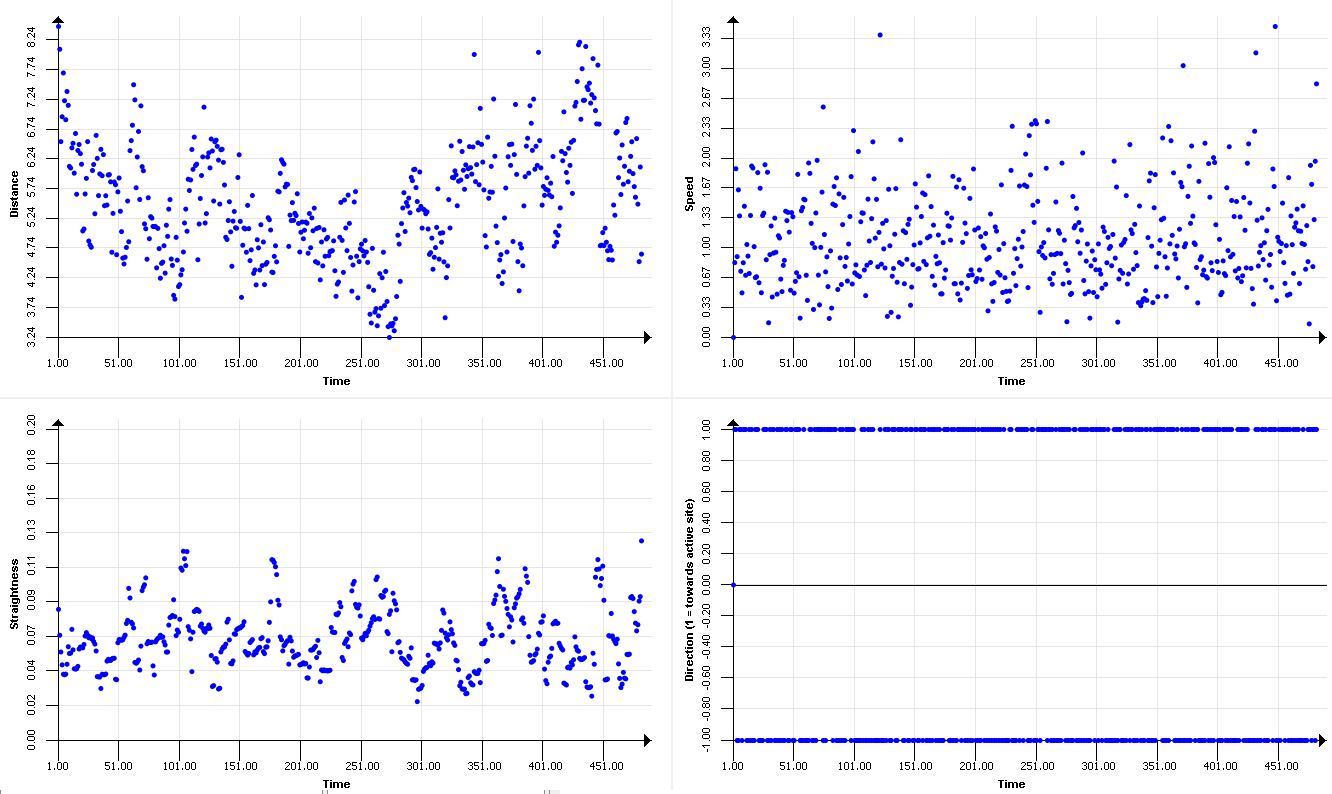
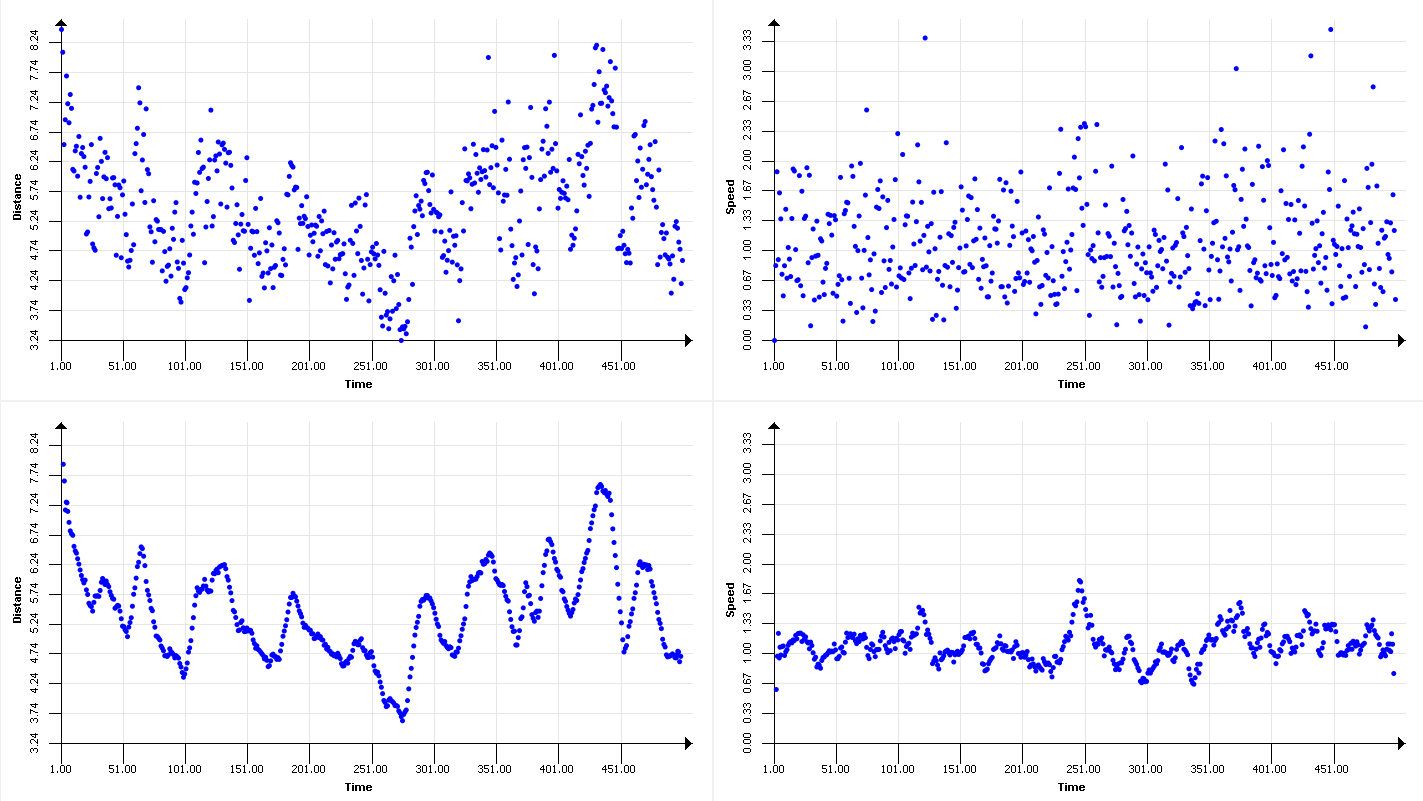
Coppied Intro and Related work from previous article.

diff --git a/BioVis/BioVis_BMC_template/ligand.tex b/BioVis/BioVis_BMC_template/ligand.tex
@@ -256,8 +256,132 @@
 %% Background %%
 %%
 \section*{Background}
-
 TODO BK + JP (Intro + RW)
+
+The study of reaction processes between different types of molecules has been an important research problem already for decades.
+A proper understanding of the processes occurring when two or more molecules react helps in the design of new chemical matters, e.g., in drug design or protein engineering.
+Here, the researchers aim to combine a protein with a given ligand in order to design a new drug or to change protein properties and their function.
+In these particular cases the ligand has to be transported from the outer solvent to the protein active site where the chemical reaction between the ligand and the amino acids surrounding the active site takes place.
+The consecutive reaction then changes the composition and properties of both molecules. 
+In protein engineering, for example, the goal is to alter the protein properties so that the new protein is, e.g., more stable and resistant to organic cosolvents~\cite{Koudelakova2013}.
+
+The design complexity of such reactions lies namely in the transportation of the ligand to the protein active site.
+As the active site is usually buried deeply in the protein structure and thus inaccessible directly from its surface, the ligand has to find a suitable transportation path through the protein structure.
+This process, called molecular docking, is very complex, lengthy, and its analysis is heavy on computational resources. 
+Therefore, researchers aim at solutions that simplify and ease the analysis for proper ligand binding.
+Currently available solutions often focus on detection of possible ligand transportation paths through the protein, called tunnels.
+These solutions are mostly based on the geometric analysis, which lead to the tunnel detection in the end, e.g., CAVER~\cite{Chovancova2012}, MOLE~\cite{Sehnal2013}, or MolAxis~\cite{Yaffe2008}.
+Other approaches, such as MoMA-LigPath~\cite{Devaurs}, aim at simulating the ligand transportation itself.
+Nevertheless, simulating the ligand docking using current computational approaches is still a challenging problem.
+There are several available variants of molecular simulation methods devised specifically to this problem. 
+Among these Steered Molecular Dynamics~\cite{Isralewitz} and Random Acceleration Molecular Dynamics~\cite{Ludemann} are able to simulate the ligand binding. 
+Such simulations produce a large amount of data containing the ligand movements that are to be explored by the domain expert.
+As the length of these simulations reaches often hundreds of thousands of time steps, it becomes impossible for the domain experts to visualize and observe the ligand movement in a frame-by-frame manner.
+Moreover, the simulation often contains movements that are irrelevant to the ligand binding.
+For example, a significant portion of the simulation the ligand usually spends outside the protein searching for a proper tunnel gorge to enter the molecule. 
+It also often happens that the ligand enters the molecule via a wrong tunnel and is then evicted from the molecule and searches for the entrance repeatedly.
+Therefore, the "true" active site entering can be in fact captured in a smaller subset of the original sequence.
+
+In this paper, we propose a new visual analysis system that addresses the aforementioned challenges, i.e.,  the transportation of a ligand to the active site. 
+We aim to provide the domain experts with a tool for intuitive and interactive exploration of already captured molecular dynamics simulation containing the process of ligand binding. 
+Using our proposed solution the users are able to distinguish between the parts of the simulation where the ligand searches for the proper path to the active site (searches the tunnel gorge or enters the wrong tunnel) and the part where the ligand finally leads to and reaches the active site.
+
+{\color{red} CHANGE
+Here, we introduce four dedicated methods for simplification of the original trajectory.
+These methods can simplify the ligand path hierarchically, thus providing several levels of detail (LOD), which can be interactively examined.
+In the most abstracted view, represented as the top-most LOD, the temporal tunnel shows only the significant shifts of the ligand towards the active site. 
+Here, the user can interactively brush time intervals, which automatically reveals and adopts the temporal tunnel to the selected interval.
+This abstracted representation, providing the brushing capabilities, is interactively linked with the 3D visualization where the 3D shape of the temporal tunnel for the given temporal window is displayed.
+Further, our tool enables to explore the amino acids surrounding the ligand along its path to the active site as well.
+
+Our proposed solution was thoroughly tested and evaluated by the domain experts from protein engineering.
+They performed the evaluation on their own simulations and their feedback is described in....}
+
+\section{Related Work}
+The interactive exploration of ligand paths through protein structures is a complex problem that requires an elaborate analysis of existing and convenient approaches.
+As our system addresses several areas, this section will be divided with respect to these areas as well. 
+Studying the ligand transport path is tightly related to the analysis of its trajectory.
+Thus, the first part will cover the topic related to the trajectory analysis, simplification, and visualization.
+Then the existing representations of tunnels and their surrounding amino acids will be addressed.
+
+\subsection{Trajectory Analysis, Simplification, and Visualization}
+When searching for the most appropriate trajectory simplification method, the taxonomy of different movement patterns introduced by Dodge et al.~\cite{Dodge2008} can help to categorize the type of motion and to propose an appropriate solution for the analysis and simplification.
+Then, Andrienko et al.~\cite{andrienko2013} describe a legacy of tools and approaches to analyze trajectory data.
+With respect to the trajectory simplification, they introduce two approaches to data abstraction representing a necessary step to achieve the reduction of the data in order to achieve informative visualizations.
+The first approach is characterized by omitting unnecessary positions and segments, while the second exploits data subsampling.
+On the other hand, they state that there is no general method to sample trajectories.
+Thus the suitability of particular sampling method is deduced from what information is considered important.
+A recent work of Vrotsou et al.~\cite{Vrotsou2015} introduce a systematic stepwise methodology for trajectory simplification with emphasis on visual analysis.
+Even though they primarily developed the tool to analyze three dimensional trajectories, it is not limited to them only.
+
+In the field of molecular biology as well as systems biology, there are several examples of methods focusing on trajectory analysis.
+Bidmon et al.~\cite{bidmon2008} present an abstract way of identification and visualization of solvent molecules' pathways within molecular dynamics. 
+In comparison to previous solutions, their approach preserves valuable information on the directions and velocities of water molecules routing along these paths. 
+Another approach that describes a guidance through a complex simulation trajectories in systems biology is presented by Luboschik et al.~\cite{Luboschik2012}. 
+The method addresses biochemical reaction networks and aims to provide the users with a tool for investigating the overall behavior of a modeled system and detailed behavior at the same time.
+
+\subsection{Visualization of Cavity and Tunnel Features}
+Phillips et al.~\cite{phillips2010} propose a method to quantitatively estimate molecular features, e.g., volume and surface areas, via ray-casting technique. This involves computation of cavities.
+Lindow et al.~\cite{LindowBH11} introduce a technique that allows to extract significant paths from the molecules. 
+In their approach the authors utilize Voronoi diagram of spheres. 
+Their final visualization is achieved by means of placing light sources on the extracted paths to enhance the presence of tunnels.
+Parulek et al.~\cite{parulek2012} exploit scatterplots to communicate the evolution of protein voids. 
+In their later study~\cite{parulek2013} they also suggest to utilize amino acids physico-chemical properties related to cavities to help users to navigate through their occurrences. 
+The visualization is then achieved in the focus and context manner.
+Lindow et al. \cite{Lindow2013} present an approach for visualization of temporal evolution of cavities in a temporal graph, which, to a certain extent, resembles our temporal tunnel model. 
+In this work they focus on the interactive exploration of the dynamics of protein cavities that can form the transportation path for a ligand. 
+They calculate and visualize the cavity volume and analyze the time-dependent changes of the cavity structure.
+The cavity dynamics is captured by rendering the cavities in a single image. 
+The final visualization is achieved through the molecular surface representation colored according to time. 
+Krone et al.~\cite{krone2013features} present a similar approach, where they extract and track tunnels in MD simulations. They exploit temporal graphs to communicate the evolution of surface areas of tunnels. In our technique, we go one step further, where in addition, we incorporate the ligand-protein interaction information and provide users with the means to navigate through details of this interaction. Moreover, we analyze sequences of several thousands of frames, which is not the case in aforementioned approaches.
+Kozlikova et al.~\cite{kozlikova2014vcbm} propose a way to seamlessly visualize the geometry and shape of tunnels across MD simulation. Here, they aim at 3D visualization solely, which is not suitable way of exploring and understanding of thousands of simulation time-steps.
+Byska et al.~\cite{byska2016} introduce an approach to interactively explore the tunnel objects in MD simulations. Similarly to our approach they visualize the time-varying tunnel as a profile graph that includes information on surrounding amino acids. Nevertheless, they focus on a single tunnel instance and do not provide the means to explore the ligand-protein interaction.
+
+%-------------------------------------------------------------------------
+\section{Problem Description and Input Data}
+When studying long molecular dynamics simulations, the researchers have to face namely the following high-level tasks:
+\begin{itemize}
+\item Detect the part of the simulation where the ligand enters the protein and finally reaches the active site.
+\item Explore this route in detail and detect its bottlenecks.
+\end{itemize}
+In consequence, these steps are performed in order to reveal the parts of the trajectory where the ligand gets stuck.
+It means that in such parts there are some obstacles made by the surrounding amino acids.
+These obstacles can be geometric (the empty space between these amino acids is too narrow) or physico-chemical (the properties of the amino acids are incompatible with the ligand properties), or their combination.
+The geometric obstacles can be detected by using an algorithm for tunnel computation in molecular dynamics (e.g., CAVER~\cite{Chovancova2012} or MOLE~\cite{Sehnal2013}).
+These tools are able to produce the information about time evolution of individual tunnels and for each tunnel detect its bottleneck -- the narrowest part limiting the size of the ligand aiming to pass through this tunnel.
+Figure~\ref{fig:tunnel} shows an example of small ligand passing through a tunnel computed by CAVER algorithm and visualized using CAVER Analyst~\cite{Kozlikova2014}. 
+The tunnel is colored with respect to the hydrophobicity of the surrounding amino acids and the geometric bottleneck of the tunnel is clearly visible.
+
+\begin{figure}[htb]
+	\centering
+  \includegraphics[width=1\linewidth]{img/tunnel.png}
+  \caption{\label{fig:tunnel} Small ligand (green) passing through a tunnel represented by the transparent surface. The surface encloses the available empty space along the tunnel centerline and is colored with respect to the hydrophobicity of the surrounding amino acids (hydrophobic -- red, hydrophylic -- blue, neutral -- violet). The active site is located in the left ending of the tunnel.}
+\end{figure}
+
+However, this bottleneck can be to some extent influenced by the passing ligand and this influence is also determined by the physico-chemical properties of the ligand and the bottleneck-lining amino acids (e.g., hydrophobicity or partial charges of individual atoms).
+To reveal such dependencies, it requires the involvement and experience of the domain expert who has to study the ligand trajectory captured in the molecular dynamics simulation.
+And for such task a proper visual representation and guidance through such large data is substantial.
+
+In protein engineering, all these effort can finally lead to the detection of amino acids along the ligand trajectory which caused problems, i.e., were the key players in situations when the ligand gets stuck.
+Such amino acids are then the best candidates for subsequent mutation of the protein chain when these amino acids are replaced by more suitable ones wrt. their size and properties.
+On the other hand, in drug design the aim is to propose modifications of the ligand to increase the binding likelihood in order to design a better drug produced from this ligand.
+
+The input data is obtained from the simulations of molecular dynamics which contains the movements of the protein and one or more ligands.
+Ligands can follow two main routes -- they can be transported from the outside environment to the protein active site or vice versa (after the desired reaction the product leaves the protein).
+
+The length of the simulations may vary from few hundreds to hundreds of thousands of time steps.  
+This depends namely on the ligand velocity and its ability to find the proper path to the active site.
+Figure \ref{fig:lig_movement} shows an example of a ligand trajectory consisting of $50.000$ time steps. 
+
+\begin{figure}[htb]
+	\centering
+  \includegraphics[width=0.95\linewidth]{img/lig_movement.png}
+  \caption{\label{fig:lig_movement} Ligand trajectory (gray) for a simulation containing $50.000$ time steps.}
+\end{figure}
+
+Long simulations can often contain many time steps when the ligand followed an impasse -- it tried to find the proper entrance point to the protein (tunnel gorge) or entered a wrong tunnel and had to return.
+Such parts of the simulation could be of less interest so that the user should be provided with a possibility to filter them out and focus only on the interesting parts.
+
 
 \section*{Method}
 \subsection*{Overview + workflow - BK}
@@ -381,17 +505,19 @@ As a result the scatterplot can easily reveal trends and relationships between a
 Interactive manipulation with scatterplot, such as selection, zooming and change of displayed attributes provides easy way of manual data filtering. 
 To eliminate the noise in the data caused by ligand jittering, we propose several smoothing and aggregation functions.
 \todo{nechat len sliding window?} 
-The Sliding window function assigns to each time step averaged value of its neighborhood.
+The Sliding Window function assigns to each time step averaged value of its neighborhood.
 The size of the neighborhood is user regulated. 
 
 The plots can further be stacked, forming a matrix and thus showing relationship between multiple attributes at once.
 The stacked plots are also interactively interconnected.
 The selection in Scatterplot Matrix is interactively linked with Barchart View.
 
+Figure \ref{fig:scatterplot} shows Scatterplot Matrix for a sequence of $500$ time steps.
+
 \begin{figure}[htb]
 	\centering
   \includegraphics[width=0.95\linewidth]{img/scatterplot.png}
-  \caption{\label{fig:scatterplot} CHANGE!!! Scatterplot Matrix depicting Time vs. Distance and Time vs Speed property before (up) and after (down) smoothing by Sliding Window Function.}
+  \caption{\label{fig:scatterplot} CHANGE!!! Scatterplot Matrix depicting Time vs. Distance and Time vs Speed property before (up) and after (down) smoothing by Sliding Window function.}
 \end{figure}
 
 
